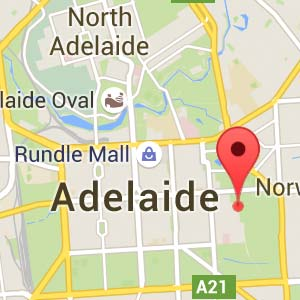
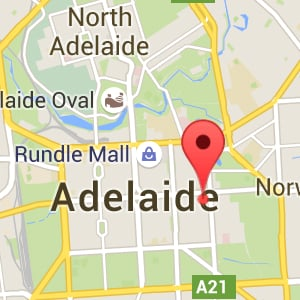
Update address and map to Adelaide SA office.

Changed region(s): [[0.6, 0.39, 0.87, 0.72], [0.12, 0.99, 0.15, 1.0]]

diff --git a/user/pages/08.about/01.contact/01.locations/03.au-sa/simple_contact.md b/user/pages/08.about/01.contact/01.locations/03.au-sa/simple_contact.md
@@ -16,7 +16,7 @@ process:
 
 office:
   location:
-    street: 200 East Terrace
+    street: Level 2, 285 Wakefield Street
     city: Adelaide
     region: South Australia
     postcode: 5000
